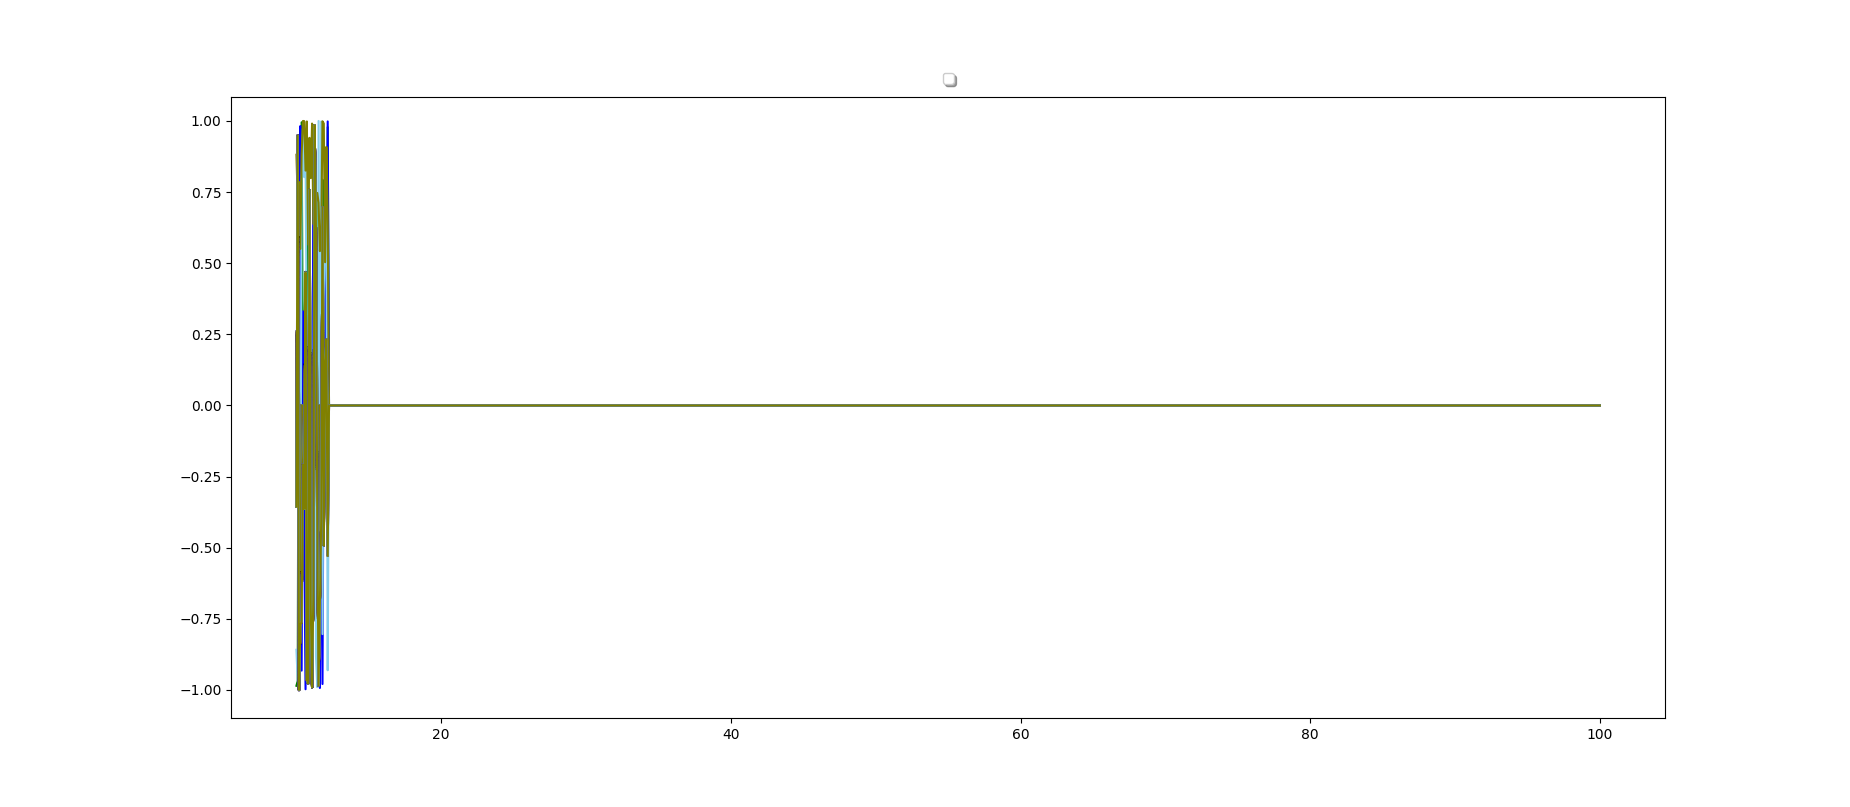
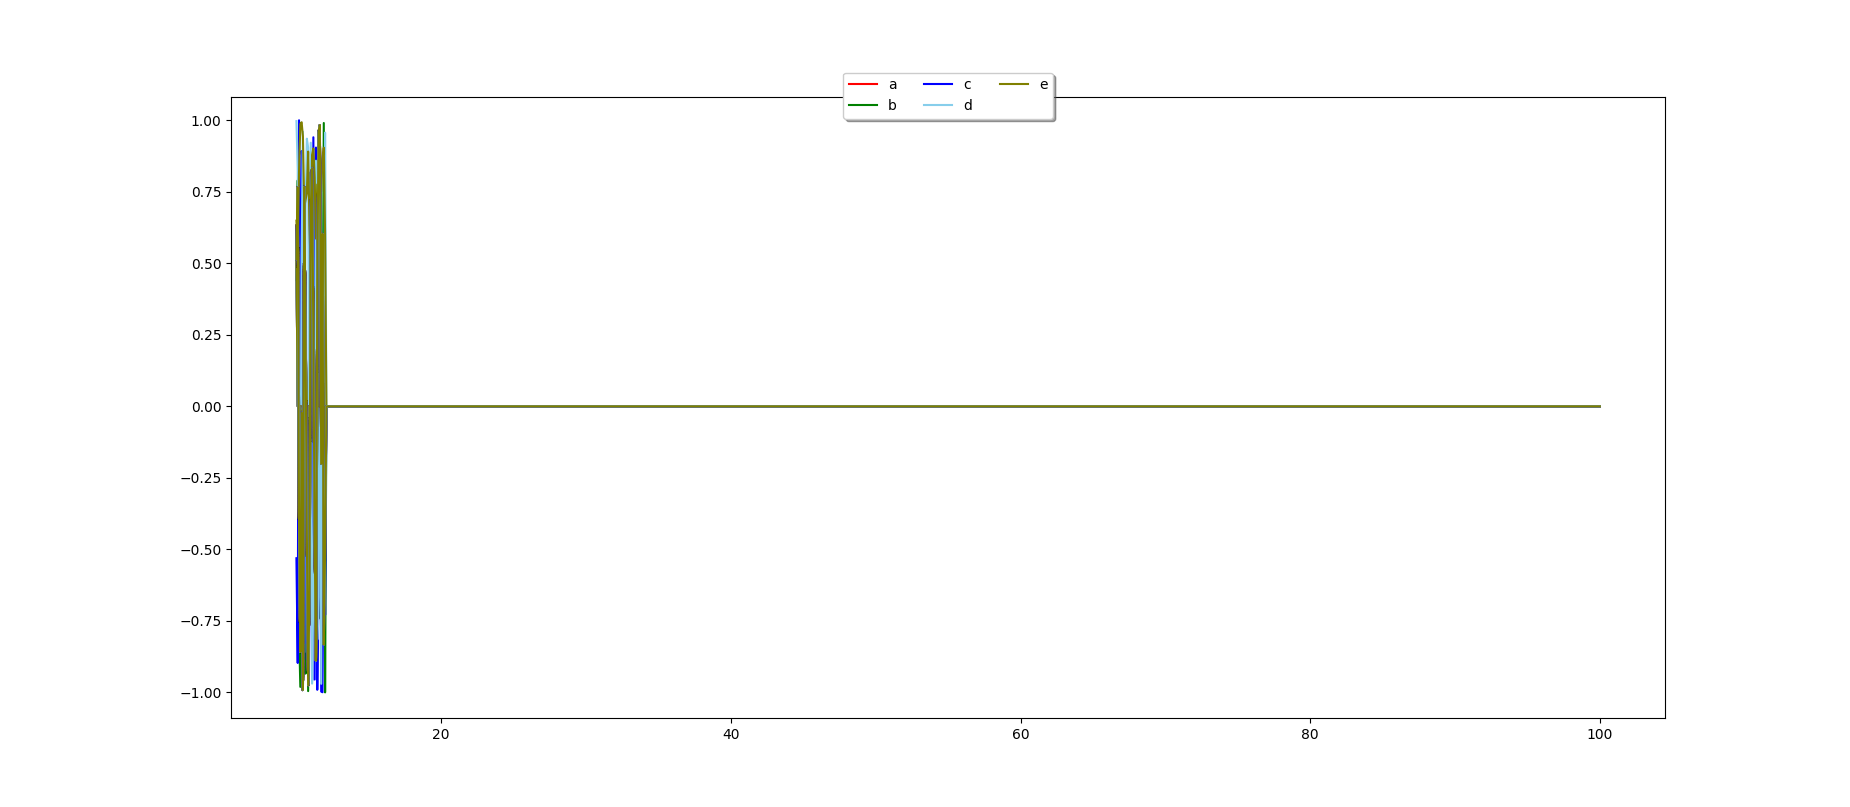
Poprawki legendy

diff --git a/skaner_main.py b/skaner_main.py
@@ -54,19 +54,25 @@ class MplCanvas(FigureCanvas, anim.FuncAnimation):
         self.axLegends = ["a", "b", "c", "d", "e"]
 
     def plotData(self, xdata, ydata, lines):
-        for i in range(lines):
-            if len(self.axLegends) >= i + 1:
-                axlabel = self.axLegends[i]
-            else:
-                axlabel = None
+        if len(self.plotref) == 0:
+            for i in range(lines):
+                if len(self.axLegends) >= i + 1:
+                    axlabel = self.axLegends[i]
+                else:
+                    axlabel = None
 
-            plot_refs = self.axes.plot(
-                xdata, ydata[0], lineColors[i], label=axlabel)
+                plot_refs = self.axes.plot(
+                    xdata, ydata[0], lineColors[i], label=axlabel)
 
-            legend = self.axes.legend(loc='upper center', bbox_to_anchor=(
-                0.5, 1.05), ncol=3, fancybox=True, shadow=True)
-            self.plotref.append(plot_refs[0])
-            self.plotref[i].set_ydata(ydata[i])
+                legend = self.axes.legend(loc='upper center', bbox_to_anchor=(
+                    0.5, 1.05), ncol=3, fancybox=True, shadow=True)
+                self.plotref.append(plot_refs[0])
+                self.plotref[i].set_ydata(ydata[i])
+        else:
+            for i in range(lines):
+                plot_refs = self.axes.plot(
+                    xdata, ydata[0], lineColors[i])
+                self.plotref[i].set_ydata(ydata[i])
 
         self.draw()
         return
